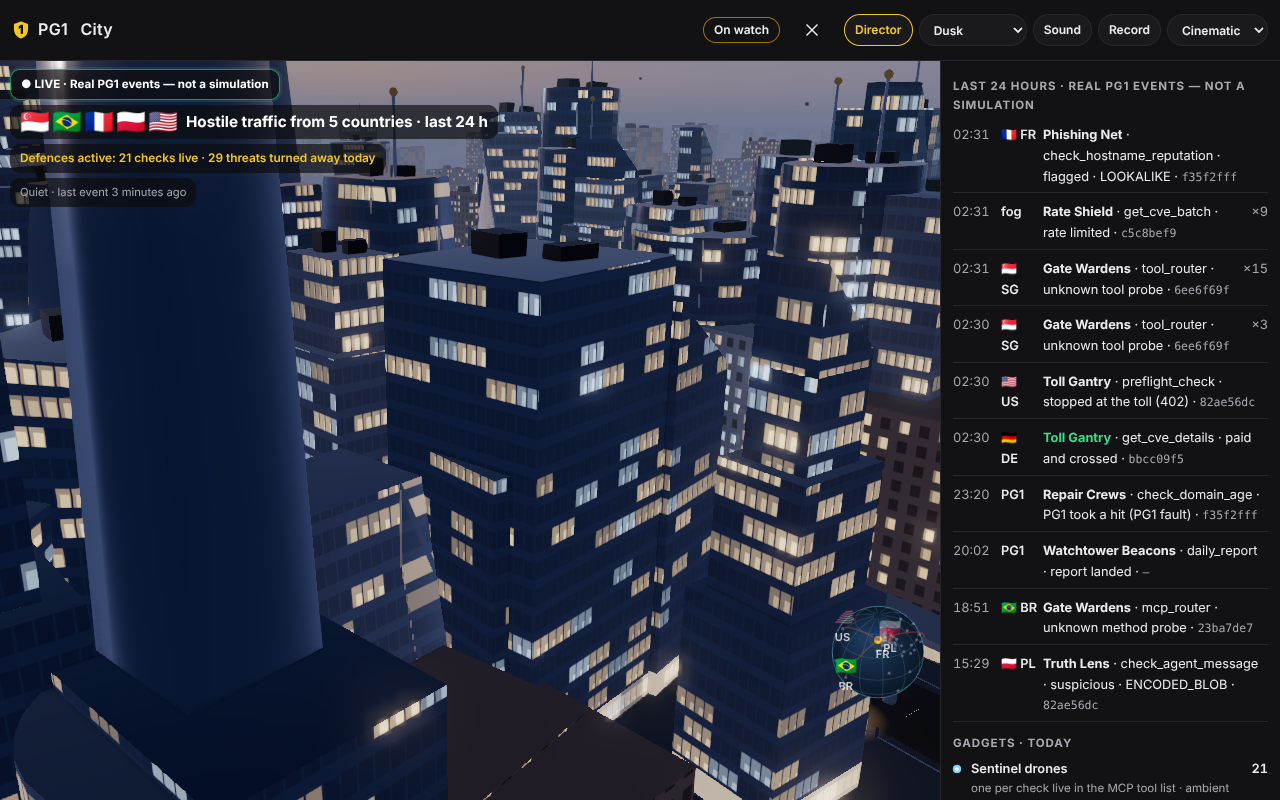
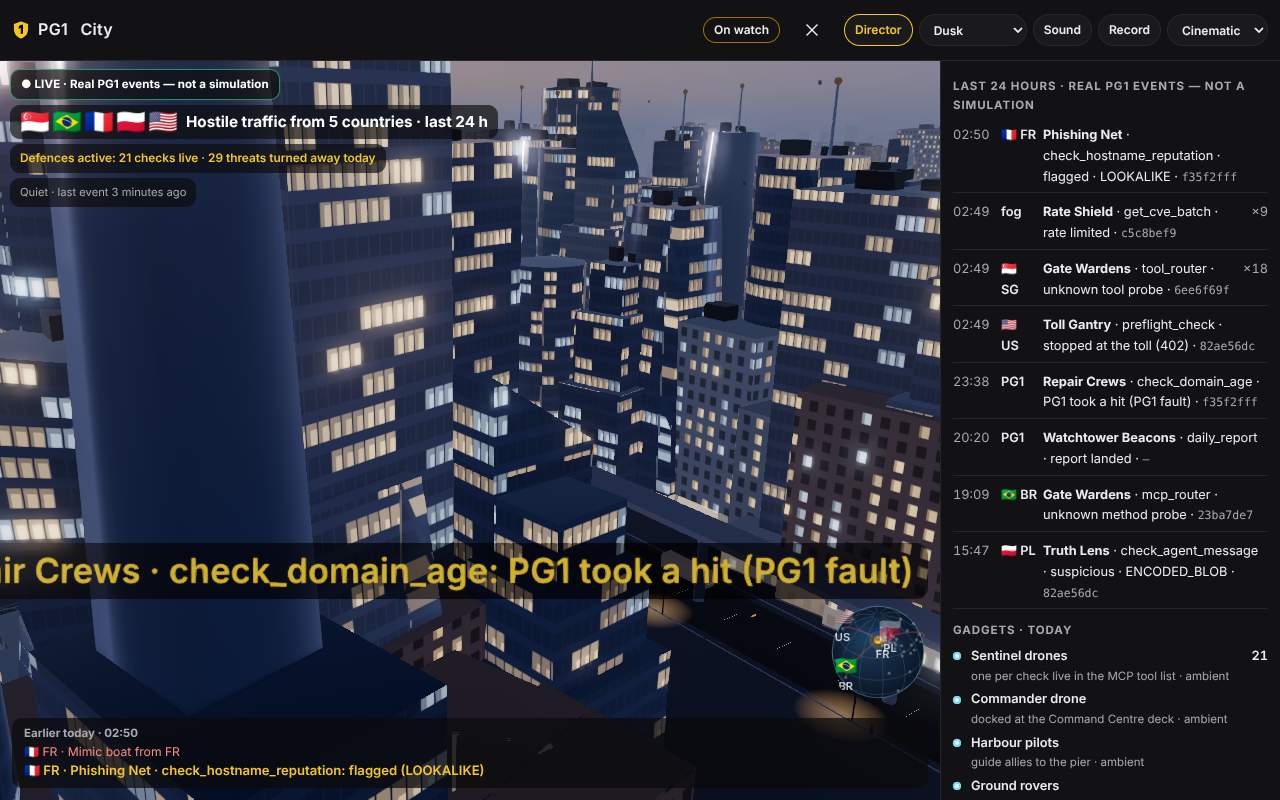
PG1 City: crown emblem, flat plaza inlay, full-tower hero shot, fogged river mirror
- Main emblem moved onto the PG1 Tower's crown, facing the hero camera:
  extruded, bevelled brushed-gold PBR shield from /brand/pg1-shield.svg,
  recessed black-enamel "1", emissive gold rim picked up by bloom, PMREM
  sky reflections; hologram stays above the beacon at night.
- Upright foreground shield and south/projection emblems removed; the plaza
  emblem is now a flat lit gold-line inlay in the paving.
- Hero shot (phone and desktop) frames the whole tower from base to beacon
  along a building-free corridor with the river leading in.
- Red/blue wedge on the left: the planar river mirror ignored fog, so the far
  reflection of the sunset stayed saturated to the horizon. Mirror now uses a
  fog-aware Reflector shader.
- Tests: emblem from brand asset and visible in default view at 412 px and
  desktop, no emblem within 150 m of the hero camera, no upright emblem at
  street level, no red artefact on the left of the hero shot.

Claude-Session: https://claude.ai/code/session_01X8yNKD2kJmFrCDHrFhLxbH

diff --git a/public/kingdom/kingdom-scene.js b/public/kingdom/kingdom-scene.js
@@ -32,7 +32,7 @@ import { TIER_SETTINGS, pickTier, createGovernor, QUALITY_KEY } from '../sandbox
 import { createPost } from '../sandbox/post.js';
 import { createControls } from '../sandbox/controls.js';
 import { createWaterMaterial } from '../sandbox/water.js';
-import { buildWorld, RIVER } from './kingdom-world.js';
+import { buildWorld, RIVER, HERO_BEARING, TOWER_TOP } from './kingdom-world.js';
 import { createActors } from './kingdom-actors.js';
 import { createLife } from './kingdom-life.js';
 import { loadBrand, BRAND_SVG_URL } from './kingdom-emblem.js';
@@ -61,7 +61,12 @@ export function clearCamera(cam, target, obstacles, clearance = CAMERA_CLEARANCE
 }
 // The default view: an aerial angle from the east, the river leading the eye to the tower.
 // The hero shot: low along the river from the east, towards the PG1 Tower.
-export const HOME_VIEW = Object.freeze({ target: [-40, 95, 70], dist: 700, theta: 0.07, phi: 1.36 });
+export const HOME_VIEW = Object.freeze({ target: [0, 135, 0], dist: 640, theta: HERO_BEARING, phi: 1.38 });
+// On a phone the overlays cover the top of the view: aim higher and stand
+// further back, so the whole tower sits below them.
+export const HOME_VIEW_PHONE = Object.freeze({ target: [0, 150, 0], dist: 570, theta: HERO_BEARING, phi: 1.37 });
+// No emblem may come nearer the camera than this in the hero shot (metres).
+export const EMBLEM_CLEARANCE = 150;
 
 export const KINGDOM_TIERS = Object.freeze(['phone', 'balanced', 'cinematic']);
 export const KINGDOM_TIER_LABEL = Object.freeze({ phone: 'Phone', balanced: 'Balanced', cinematic: 'Cinematic' });
@@ -217,6 +222,18 @@ async function create3d(container, { coarse, threeUrl, onFocus, onTier, onCaptio
   // Blue-hour height fog on every material in the city (thicker low down).
   const fogDefine = (o) => { const ms = o.material ? (Array.isArray(o.material) ? o.material : [o.material]) : []; for (const m of ms) if (!m.isShaderMaterial && !m.isSpriteMaterial && !m.isPointsMaterial && m.fog !== false && !(m.defines && m.defines.PG1_HEIGHT_FOG !== undefined)) { m.defines = { ...(m.defines || {}), PG1_HEIGHT_FOG: '' }; m.needsUpdate = true; } };
   scene.traverse(fogDefine);
+  // The emblem's gold reflects a dusk sky on every tier (a small prefiltered
+  // sky made in code; on Balanced and up the scene's sky also lights it).
+  try {
+    const cv = document.createElement('canvas'); cv.width = 256; cv.height = 128;
+    const g = cv.getContext('2d'); const gr = g.createLinearGradient(0, 0, 0, 128);
+    gr.addColorStop(0, '#1b2a52'); gr.addColorStop(0.45, '#6b6f9a'); gr.addColorStop(0.55, '#f2a35e'); gr.addColorStop(0.62, '#3a3440'); gr.addColorStop(1, '#14161c');
+    g.fillStyle = gr; g.fillRect(0, 0, 256, 128);
+    g.fillStyle = 'rgba(255,230,180,0.9)'; g.beginPath(); g.ellipse(70, 68, 22, 6, 0, 0, Math.PI * 2); g.fill();
+    const eq = new THREE.CanvasTexture(cv); eq.mapping = THREE.EquirectangularReflectionMapping; eq.colorSpace = THREE.SRGBColorSpace;
+    const pm = new THREE.PMREMGenerator(renderer); const envTex = pm.fromEquirectangular(eq).texture; pm.dispose(); eq.dispose();
+    for (const grp of world.emblemMeshes) grp.traverse((m) => { if (m.isMesh && m.material && m.material.isMeshPhysicalMaterial) { m.material.envMap = envTex; m.material.needsUpdate = true; } });
+  } catch (e) { /* the scene's light is enough */ }
   const actors = createActors(THREE, scene, world, settings);
   actors.onFire = (g, e) => { if (onGadget) onGadget(g, e); };
   const life = createLife(THREE, scene, world, settings);
@@ -266,9 +283,10 @@ async function create3d(container, { coarse, threeUrl, onFocus, onTier, onCaptio
       if (id) { focus(id, { user: true }); }
     }
   });
-  const home = new THREE.Vector3(...HOME_VIEW.target);
+  const HV = coarse ? HOME_VIEW_PHONE : HOME_VIEW;
+  const home = new THREE.Vector3(...HV.target);
   controls.minDist = 30; controls.maxDist = 3000; controls.ease = settings.ease; controls.autoRotate = 0;
-  controls.jumpTo({ target: home, dist: coarse ? HOME_VIEW.dist * 1.15 : HOME_VIEW.dist, theta: HOME_VIEW.theta, phi: HOME_VIEW.phi });
+  controls.jumpTo({ target: home, dist: HV.dist, theta: HV.theta, phi: HV.phi });
 
   const events = new Map();
   function focus(id, { user = false } = {}) {
@@ -279,7 +297,7 @@ async function create3d(container, { coarse, threeUrl, onFocus, onTier, onCaptio
     container.dataset.focus = id || '';
     if (onFocus) onFocus(e || null);
     if (onCaption) onCaption(e || null);
-    if (!id) { controls.flyTo({ target: home, dist: coarse ? HOME_VIEW.dist * 1.15 : HOME_VIEW.dist, phi: HOME_VIEW.phi }); actors.commanderTo(null); }
+    if (!id) { controls.flyTo({ target: home, dist: HV.dist, theta: HV.theta, phi: HV.phi }); actors.commanderTo(null); }
     else if (e && e.severity === 'high') { const p = actors.whereIs(id); if (p) actors.commanderTo(p); }
   }
   function setDirector(on) {
@@ -381,7 +399,8 @@ async function create3d(container, { coarse, threeUrl, onFocus, onTier, onCaptio
       if (p) { focusPoint.set(p.x, p.y + 4, p.z); controls.flyTo({ target: focusPoint, dist: coarse ? 150 : 130, phi: 0.95 }); }
     } else if (controls.userActive <= 0) {
       // The slow flyover: a gentle sway across the river axis.
-      controls.goalTheta = HOME_VIEW.theta + 0.16 * Math.sin(t * 0.03);
+      // A slow sway that keeps the sightline along the river (no building enters it).
+      controls.goalTheta = HV.theta + 0.025 * Math.sin(t * 0.03);
     }
     controls.update(dt);
     // The camera never goes into or through a building: lifted clear of
@@ -419,7 +438,9 @@ async function create3d(container, { coarse, threeUrl, onFocus, onTier, onCaptio
     // next frame is (mean absolute Laplacian of the luminance over the
     // central region, relative to its mean): window patterns that alias
     // into noise make it jump.
-    debugView({ target, dist, theta = HOME_VIEW.theta, phi = HOME_VIEW.phi }) { setDirector(false); focusId = null; controls.userActive = 1e9; controls.jumpTo({ target: new THREE.Vector3(...target), dist, theta, phi }); },
+    // home(): back to the hero shot, held.
+    home() { setDirector(false); focusId = null; controls.userActive = 1e9; controls.jumpTo({ target: home.clone(), dist: HV.dist, theta: HV.theta, phi: HV.phi }); },
+    debugView({ target, dist, theta = HV.theta, phi = HV.phi }) { setDirector(false); focusId = null; controls.userActive = 1e9; controls.jumpTo({ target: new THREE.Vector3(...target), dist, theta, phi }); },
     sampleNoise() {
       return new Promise((resolve) => {
         const off = this.onFrame((cv) => {
@@ -479,6 +500,37 @@ async function create3d(container, { coarse, threeUrl, onFocus, onTier, onCaptio
       return { inView, height: Math.max(...ys) - Math.min(...ys), x: (Math.max(...xs) + Math.min(...xs)) / 2, y: (Math.max(...ys) + Math.min(...ys)) / 2 };
     },
     setBillboards(stats) { world.setBillboards(stats); container.dataset.billboard = world.billboardText.join(' | '); },
+    // For the tests: where the whole tower is on screen (CSS px, base and top).
+    towerScreen() {
+      const r = canvas.getBoundingClientRect();
+      const p = (y) => { const v = new THREE.Vector3(0, y, 0).project(camera); return { x: (v.x + 1) / 2 * r.width, y: (1 - v.y) / 2 * r.height, front: v.z < 1 }; };
+      return { base: p(0), top: p(TOWER_TOP), width: r.width, height: r.height };
+    },
+    // Every emblem in the scene: how far it is from the camera, and whether it stands upright.
+    emblems() {
+      const out = []; const n = new THREE.Vector3(); const q = new THREE.Quaternion(); const wp = new THREE.Vector3();
+      scene.traverse((o) => {
+        if (!/^pg1-emblem/.test(o.name) || (o.parent && /^pg1-emblem/.test(o.parent.name))) return;
+        o.getWorldPosition(wp); o.getWorldQuaternion(q);
+        n.set(0, 0, 1).applyQuaternion(q);
+        out.push({ name: o.name, y: wp.y, distance: wp.distanceTo(camera.position), upright: Math.abs(n.y) < 0.9, visible: o.visible });
+      });
+      return out;
+    },
+    // For the tests: colour statistics of a region of the next frame (fractions of the canvas).
+    sampleRegion({ x0 = 0, x1 = 1, y0 = 0, y1 = 1 } = {}) {
+      return new Promise((resolve) => {
+        const off = this.onFrame((cv) => {
+          off();
+          const c2 = document.createElement('canvas'); c2.width = cv.width; c2.height = cv.height;
+          const g = c2.getContext('2d'); g.drawImage(cv, 0, 0);
+          const X0 = Math.floor(x0 * cv.width); const Y0 = Math.floor(y0 * cv.height); const W = Math.max(1, Math.floor((x1 - x0) * cv.width)); const H = Math.max(1, Math.floor((y1 - y0) * cv.height));
+          const d = g.getImageData(X0, Y0, W, H).data; let red = 0; let sat = 0; const n = W * H;
+          for (let i = 0; i < n; i++) { const r = d[i * 4] / 255; const gg = d[i * 4 + 1] / 255; const b = d[i * 4 + 2] / 255; const mx = Math.max(r, gg, b); const mn = Math.min(r, gg, b); if (r > 0.45 && r - Math.max(gg, b) > 0.22) red++; if (mx > 0.35 && mx - mn > 0.45) sat++; }
+          resolve({ red: red / n, saturated: sat / n });
+        });
+      });
+    },
     focus: (id) => focus(id, { user: true }),
     // The director cuts straight to a live arrival (it stays on).
     cutTo(id) { if (!director) return; lastCut = performance.now(); lastLive = lastCut; focus(id); },

diff --git a/public/kingdom/kingdom-world.js b/public/kingdom/kingdom-world.js
@@ -43,6 +43,14 @@ export const DECK_Y = PODIUM_H + 150;
 export const TOWER_TOP = PODIUM_H + SPIRE_H + 22;
 export const GATE_BEARINGS = Object.freeze({ north: 0, east: Math.PI / 2, south: Math.PI, west: Math.PI * 1.5 });
 export const STYLES = Object.freeze({ glass: 0, stone: 1, brick: 2, metal: 3 });
+// The hero shot looks at the tower from this bearing (radians from +x towards
+// +z), along the river. No building stands in that sightline.
+export const HERO_BEARING = 0.16;
+export function inHeroCorridor(x, z, margin = 0) {
+  const dx = Math.cos(HERO_BEARING); const dz = Math.sin(HERO_BEARING);
+  const along = x * dx + z * dz; const across = Math.abs(-x * dz + z * dx);
+  return along > 30 && along < 1100 && across < 34 + along * 0.03 + margin;
+}
 
 export const at = (bearing, r, y = 0) => ({ x: Math.sin(bearing) * r, y, z: -Math.cos(bearing) * r });
 export const inRiver = (z) => Math.abs(z - RIVER.z) < RIVER.half;
@@ -237,8 +245,9 @@ export function buildWorld(THREE, scene, settings, { waterMaterial = null, Refle
   // The shield inlaid in the plaza paving at the tower's foot, lit.
   let inlay = null;
   if (brand) {
-    const tex = new THREE.CanvasTexture(brandCanvas(brand, 256, { glow: true })); tex.colorSpace = THREE.SRGBColorSpace;
-    inlay = named(new THREE.Mesh(new THREE.PlaneGeometry(14, 14), new THREE.MeshBasicMaterial({ map: tex, transparent: true, opacity: 0.85, depthWrite: false })), 'pg1-emblem-plaza');
+    // Lit gold lines set into the stone, flat: the shield's outline and its "1".
+    const tex = new THREE.CanvasTexture(brandCanvas(brand, 512, { outline: true })); tex.colorSpace = THREE.SRGBColorSpace;
+    inlay = named(new THREE.Mesh(new THREE.PlaneGeometry(16, 16), new THREE.MeshBasicMaterial({ map: tex, transparent: true, opacity: 0.85, depthWrite: false })), 'pg1-emblem-plaza');
     inlay.rotation.x = -Math.PI / 2; inlay.position.set(0, 0.14, 41); root.add(inlay);
   }
 
@@ -246,7 +255,18 @@ export function buildWorld(THREE, scene, settings, { waterMaterial = null, Refle
   let riverMat = waterMaterial;
   let mirror = null;
   if (cinematic && Reflector) {
-    mirror = named(new Reflector(new THREE.PlaneGeometry(9000, RIVER.half * 2), { textureWidth: 1024, textureHeight: 512, color: 0x46546a }), 'river-mirror');
+    // The mirror takes the scene's fog like everything else (three's own
+    // Reflector shader ignores fog, which left the far river as an unfogged
+    // red-and-blue strip rising out of the haze).
+    const base = Reflector.ReflectorShader;
+    const foggedShader = {
+      name: 'PG1FoggedReflector',
+      uniforms: THREE.UniformsUtils.merge([base.uniforms, THREE.UniformsLib.fog]),
+      vertexShader: base.vertexShader.replace('#include <logdepthbuf_pars_vertex>', '#include <logdepthbuf_pars_vertex>\n#include <fog_pars_vertex>').replace('gl_Position = projectionMatrix * modelViewMatrix * vec4( position, 1.0 );', 'vec4 mvPosition = modelViewMatrix * vec4( position, 1.0 );\n\t\t\tgl_Position = projectionMatrix * mvPosition;\n\t\t\t#include <fog_vertex>'),
+      fragmentShader: base.fragmentShader.replace('#include <logdepthbuf_pars_fragment>', '#include <logdepthbuf_pars_fragment>\n#include <fog_pars_fragment>').replace('#include <colorspace_fragment>', '#include <colorspace_fragment>\n\t\t\t#include <fog_fragment>')
+    };
+    mirror = named(new Reflector(new THREE.PlaneGeometry(9000, RIVER.half * 2), { textureWidth: 1024, textureHeight: 512, color: 0x46546a, shader: foggedShader }), 'river-mirror');
+    mirror.material.fog = true;
     mirror.rotation.x = -Math.PI / 2; mirror.position.set(0, -3.3, RIVER.z); root.add(mirror);
   }
   if (!riverMat) riverMat = new THREE.MeshStandardMaterial({ color: 0x2c4c6c, roughness: 0.25, metalness: 0.1, emissive: 0x16243a, emissiveIntensity: 0.6 });
@@ -304,6 +324,7 @@ export function buildWorld(THREE, scene, settings, { waterMaterial = null, Refle
     if (!offRoad(l.x, l.w) || !offRoad(l.z, l.d, 40)) return false;
     if (l.x > 150 && l.x < 270 && l.z > 10 && l.z < RIVER.z) return false;
     if (inPark(l.x, l.z, big)) return false;
+    if (inHeroCorridor(l.x, l.z, big * 0.6)) return false;
     lots.push({ seed: r() * 1000, ...l });
     return true;
   };
@@ -425,29 +446,29 @@ export function buildWorld(THREE, scene, settings, { waterMaterial = null, Refle
   // PG1's emblem, from the brand asset (kingdom-emblem.js): a large 3D
   // shield on the crown facing east (the hero shot) and south, a hologram
   // above the beacon at night, and the shield projected softly on the glass.
-  const emblemY = PODIUM_H + SPIRE_H - 46;
+  const emblemY = PODIUM_H + SPIRE_H - 36;
   const emblems3d = [];
-  let hologram = null; let projection = null;
+  let hologram = null; let emblemGlow = null;
   const brandTex = brand ? new THREE.CanvasTexture(brandCanvas(brand, 256)) : null;
   if (brandTex) brandTex.colorSpace = THREE.SRGBColorSpace;
   if (brand) {
-    for (const [nm, ry, dx, dz] of [['east', Math.PI / 2, 1, 0], ['south', 0, 0, 1]]) {
-      const e = buildEmblem(THREE, brand, { height: 30, phone });
-      e.group.name = `pg1-emblem-crown-${nm}`;
-      const off = radiusAt(emblemY) * Math.cos(Math.PI / 6) + 1.2;
-      e.group.position.set(dx * off, emblemY, dz * off);
-      e.group.rotation.y = ry;
-      keep.add(e.group);
-      emblems3d.push(e);
-    }
+    // One emblem, high on the crown, facing the hero camera (HERO_BEARING).
+    const e = buildEmblem(THREE, brand, { height: 28, phone });
+    e.group.name = 'pg1-emblem-crown';
+    const dx = Math.cos(HERO_BEARING); const dz = Math.sin(HERO_BEARING);
+    const off = radiusAt(emblemY) + 1.6;
+    e.group.position.set(dx * off, emblemY, dz * off);
+    e.group.rotation.y = Math.atan2(dx, dz);
+    keep.add(e.group);
+    emblems3d.push(e);
+    // A soft glow behind it (seen as bloom on Balanced and Cinematic, and on Phone too).
+    const glowTex = (() => { const cv = document.createElement('canvas'); cv.width = cv.height = 64; const g = cv.getContext('2d'); const gr = g.createRadialGradient(32, 32, 0, 32, 32, 32); gr.addColorStop(0, 'rgba(255,214,90,0.9)'); gr.addColorStop(1, 'rgba(255,214,90,0)'); g.fillStyle = gr; g.fillRect(0, 0, 64, 64); const t = new THREE.CanvasTexture(cv); t.colorSpace = THREE.SRGBColorSpace; return t; })();
+    emblemGlow = named(new THREE.Sprite(new THREE.SpriteMaterial({ map: glowTex, transparent: true, opacity: 0.3, blending: THREE.AdditiveBlending, depthWrite: false })), 'pg1-emblem-glow');
+    emblemGlow.scale.setScalar(52); emblemGlow.position.set(dx * (off - 1), emblemY, dz * (off - 1));
+    keep.add(emblemGlow);
     hologram = buildHologram(THREE, brand, { height: 24 });
     hologram.mesh.position.y = PODIUM_H + SPIRE_H + 40;
     keep.add(hologram.mesh);
-    projection = named(new THREE.Mesh(new THREE.PlaneGeometry(1, 1), new THREE.MeshBasicMaterial({ map: brandTex, transparent: true, opacity: 0.18, blending: THREE.AdditiveBlending, depthWrite: false })), 'pg1-emblem-projection');
-    projection.scale.set(26, 26, 1);
-    const py = PODIUM_H + 70; const pr = radiusAt(py) * Math.cos(Math.PI / 6) + 0.4;
-    projection.position.set(pr, py, 0); projection.rotation.y = Math.PI / 2; projection.rotation.z = 0;
-    keep.add(projection);
   }
   const deckR = radiusAt(DECK_Y) + 5;
   const deck = named(new THREE.Mesh(new THREE.CylinderGeometry(deckR, deckR - 1.5, 3, 6), new THREE.MeshStandardMaterial({ color: 0x2a4a68, roughness: 0.08, metalness: 0.6, emissive: 0x6fd8ff, emissiveIntensity: 0.6, transparent: true, opacity: 0.88 })), 'command-deck');
@@ -784,7 +805,7 @@ export function buildWorld(THREE, scene, settings, { waterMaterial = null, Refle
       const dark = Math.max(dusk, moon);
       for (const e of emblems3d) { e.gold.emissiveIntensity = 0.12 + 0.35 * dark + 1.4 * emblemPulse; e.edge.opacity = Math.min(1, 0.35 + 0.65 * dark + emblemPulse); }
       if (hologram) { hologram.uniforms.uTime.value = t; hologram.uniforms.uAlpha.value = Math.max(0, moon - 0.35) * 1.4 + emblemPulse * 0.3; hologram.mesh.rotation.y = t * 0.15; hologram.mesh.visible = hologram.uniforms.uAlpha.value > 0.01; }
-      if (projection) projection.material.opacity = 0.06 + 0.16 * dark;
+      if (emblemGlow) emblemGlow.material.opacity = 0.12 + 0.3 * dark + 0.4 * emblemPulse;
       if (inlay) inlay.material.opacity = 0.55 + 0.4 * dark;
     }
   };

diff --git a/public/kingdom/kingdom-emblem.js b/public/kingdom/kingdom-emblem.js
@@ -62,14 +62,18 @@ export function shapeFromPath(THREE, d, { asPath = false } = {}) {
 }
 
 // The logo on a canvas, from the same paths and fills.
-export function brandCanvas(brand, size = 256, { glow = false, background = null } = {}) {
+export function brandCanvas(brand, size = 256, { glow = false, background = null, outline = false } = {}) {
   const cv = document.createElement('canvas'); cv.width = cv.height = size;
   const g = cv.getContext('2d');
   if (background) { g.fillStyle = background; g.fillRect(0, 0, size, size); }
   const [vx, vy, vw, vh] = brand.viewBox || [169.76, -2, 104, 104];
   g.save(); g.scale(size / vw, size / vh); g.translate(-vx, -vy);
   if (glow) { g.shadowColor = brand.paths[0].fill; g.shadowBlur = 6; }
-  for (const p of brand.paths) { g.fillStyle = p.fill; g.fill(new Path2D(p.d)); }
+  if (outline) {
+    // Gold lines only (an inlay): the shield's outline and the "1", in the shield's own gold.
+    g.strokeStyle = brand.paths[0].fill; g.lineJoin = 'round'; g.lineWidth = 2.4; g.shadowColor = brand.paths[0].fill; g.shadowBlur = 3;
+    for (const p of brand.paths) g.stroke(new Path2D(p.d));
+  } else for (const p of brand.paths) { g.fillStyle = p.fill; g.fill(new Path2D(p.d)); }
   g.restore();
   return cv;
 }
@@ -89,8 +93,8 @@ export function buildEmblem(THREE, brand, { height = 30, phone = false } = {}) {
   const g = new THREE.Group(); g.name = 'pg1-emblem';
   const shield = shapeFromPath(THREE, shieldP.d);
   shield.holes.push(shapeFromPath(THREE, oneP.d, { asPath: true }));
-  const bevel = { depth: 0.06, bevelEnabled: true, bevelThickness: 0.02, bevelSize: 0.015, bevelSegments: phone ? 2 : 4, curveSegments: phone ? 10 : 24 };
-  const goldMat = new THREE.MeshPhysicalMaterial({ color: shieldP.fill, metalness: 1, roughness: 0.28, anisotropy: 0.7, clearcoat: 0.3, emissive: shieldP.fill, emissiveIntensity: 0.12 });
+  const bevel = { depth: 0.1, bevelEnabled: true, bevelThickness: 0.035, bevelSize: 0.022, bevelSegments: phone ? 3 : 6, curveSegments: phone ? 14 : 32 };
+  const goldMat = new THREE.MeshPhysicalMaterial({ color: shieldP.fill, metalness: 1, roughness: 0.24, anisotropy: 0.8, anisotropyRotation: Math.PI / 2, clearcoat: 0.4, clearcoatRoughness: 0.15, emissive: shieldP.fill, emissiveIntensity: 0.12, envMapIntensity: 1.4 });
   goldMat.userData.brandFill = shieldP.fill;
   const body = new THREE.Mesh(new THREE.ExtrudeGeometry(shield, bevel), goldMat); body.name = 'pg1-emblem-shield';
   body.scale.setScalar(k); g.add(body);
@@ -99,14 +103,16 @@ export function buildEmblem(THREE, brand, { height = 30, phone = false } = {}) {
   const enamel = new THREE.MeshPhysicalMaterial({ color: oneP.fill, metalness: 0, roughness: 0.15, clearcoat: 1, clearcoatRoughness: 0.08 });
   enamel.userData.brandFill = oneP.fill;
   const numeral = new THREE.Mesh(new THREE.ExtrudeGeometry(one, { depth: 0.05, bevelEnabled: false, curveSegments: phone ? 6 : 12 }), enamel); numeral.name = 'pg1-emblem-one';
-  numeral.scale.setScalar(k); numeral.position.z = 0.012 * k; g.add(numeral);
+  // Recessed: its face sits a little below the shield's face.
+  numeral.scale.setScalar(k); numeral.position.z = 0.06 * k; g.add(numeral);
   // The glowing gold edge: a thin rim, the shield's own outline inset by 3 %.
   const rim = shapeFromPath(THREE, shieldP.d);
   const inner = new THREE.Path(shapeFromPath(THREE, shieldP.d).getPoints(phone ? 40 : 90).slice(0, -1).map((p) => p.clone().multiplyScalar(0.965)).reverse());
   rim.holes.push(inner);
   const edgeMat = new THREE.MeshBasicMaterial({ color: 0xffd34d, transparent: true, opacity: 0.9 });
   const edge = new THREE.Mesh(new THREE.ExtrudeGeometry(rim, { depth: 0.012, bevelEnabled: false, curveSegments: phone ? 10 : 24 }), edgeMat); edge.name = 'pg1-emblem-edge';
-  edge.scale.setScalar(k); edge.position.z = 0.085 * k; g.add(edge);
+  edge.scale.setScalar(k); edge.position.z = 0.135 * k; g.add(edge);
+  edgeMat.color.multiplyScalar(2.2); // brighter than white-point: the bloom picks it up
   return { group: g, gold: goldMat, edge: edgeMat, enamel };
 }
 

diff --git a/public/index.html b/public/index.html
@@ -493,6 +493,16 @@
     .kd-cap-when { font-size: 0.72rem; font-weight: 700; color: #a8a8b0; }
     .kd-cap-when[data-live="true"] { color: #3ddc84; }
     @media (prefers-reduced-motion: reduce) { .kd-badge[data-state="live"] { animation: none; } }
+    @media (max-width: 560px) {
+      .kd-overlay { top: 6px; left: 8px; right: 8px; gap: 3px; }
+      .kd-overlay > * { padding: 3px 8px; border-radius: 8px; }
+      .kd-badge { font-size: 0.64rem; }
+      .kd-countries { font-size: 0.8rem; gap: 4px; }
+      .kd-hud { font-size: 0.64rem; }
+      .kd-ticker { font-size: 0.62rem; }
+      .kd-ticker li:nth-child(n+3) { display: none; }
+      .kd-globe-pip { width: 84px; height: 84px; bottom: 90px; }
+    }
     .kd-caption { display: flex; flex-direction: column; gap: 2px; }
     .kd-cap-enemy { color: #ff8a7a; font-size: 0.76rem; }
     .kd-cap-defence { color: #f3c623; font-weight: 600; }
